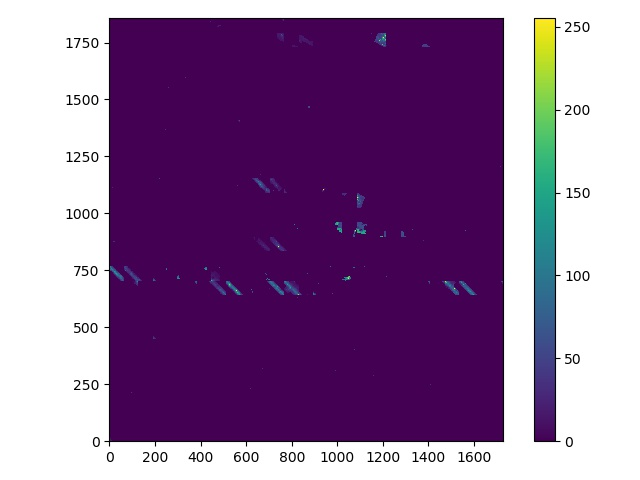
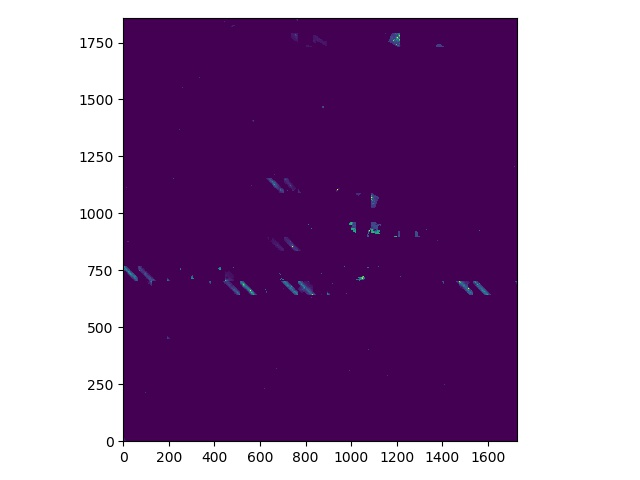
update

diff --git a/tile_orientation/tile_orientation.py b/tile_orientation/tile_orientation.py
@@ -11,9 +11,16 @@ data = allsky.data.astype('float')
 norm = simple_norm(data, 'linear', min_cut=0, max_cut=data.max())
 plt.figure()
 plt.imshow(data, origin='lower', norm=norm)
-plt.colorbar()
 plt.tight_layout()
 plt.savefig('Allsky_from_JPG.jpg')
+
+tile = allsky.tile(271)
+data = tile.data
+norm = simple_norm(data, 'linear', min_cut=0, max_cut=data.max())
+plt.figure()
+plt.imshow(data, origin='lower', norm=norm)
+plt.tight_layout()
+plt.savefig('Tile_from_JPG.jpg')
 
 meta_fits = HipsTileMeta(order=3, ipix=497, file_format='fits')
 url = 'https://github.com/hipspy/hips-extra/raw/master/datasets/samples/IRAC4/Norder3/Allsky.fits'
@@ -22,13 +29,13 @@ data = allsky.data.astype('float')
 norm = simple_norm(data, 'log', min_cut=0, max_cut=data.max())
 plt.figure()
 plt.imshow(data, origin='lower', norm=norm)
-plt.colorbar()
 plt.tight_layout()
 plt.savefig('Allsky_from_FITS.jpg')
 
-# meta_fermi = HipsTileMeta(order=3, ipix=-1, file_format='jpg')
-# allsky_fermi = HipsTileAllskyArray.read(meta_jpg, '../hips-extra/datasets/samples/FermiColor/Norder3/Allsky.jpg')
-# tile = allsky_fermi.tile(451)
-# tile.write('test_tile.jpg')
-#
-# print(allsky_fits.data.shape)
+tile = allsky.tile(271)
+data = tile.data
+norm = simple_norm(data, 'linear', min_cut=0, max_cut=data.max())
+plt.figure()
+plt.imshow(data, origin='lower', norm=norm)
+plt.tight_layout()
+plt.savefig('Tile_from_FITS.jpg')

diff --git a/tile_orientation/README.md b/tile_orientation/README.md
@@ -3,14 +3,31 @@
 This script and images show that both HiPS tiles and HiPS all-sky files 
 are up-down flipped in FITS format when compared to the JPEG and PNG format.
 
-### Original all-sky image in JPG format
+## Tile image example
+
+### Original image in JPG format
+
+<img src="https://github.com/hipspy/hips-extra/raw/master/datasets/samples/IRAC4/Norder3//Dir0/Npix271.jpg" width="400">
+
+### From JPG format from the script
+
+![Tile_from_JPG.jpg](Tile_from_JPG.jpg)
+
+### From FITS format from the script
+
+![Tile_from_FITS.jpg](Tile_from_FITS.jpg)
+
+
+## All-sky image example
+
+### Original image in JPG format
 
 <img src="https://github.com/hipspy/hips-extra/raw/master/datasets/samples/IRAC4/Norder3/Allsky.jpg" width="400">
 
-### All-sky image in JPG format from the script
+### From JPG format from the script
 
 ![Allsky_from_JPG.jpg](Allsky_from_JPG.jpg)
 
-### All-sky image in FITS format from the script
+### From FITS format from the script
 
 ![Allsky_from_FITS.jpg](Allsky_from_FITS.jpg)
